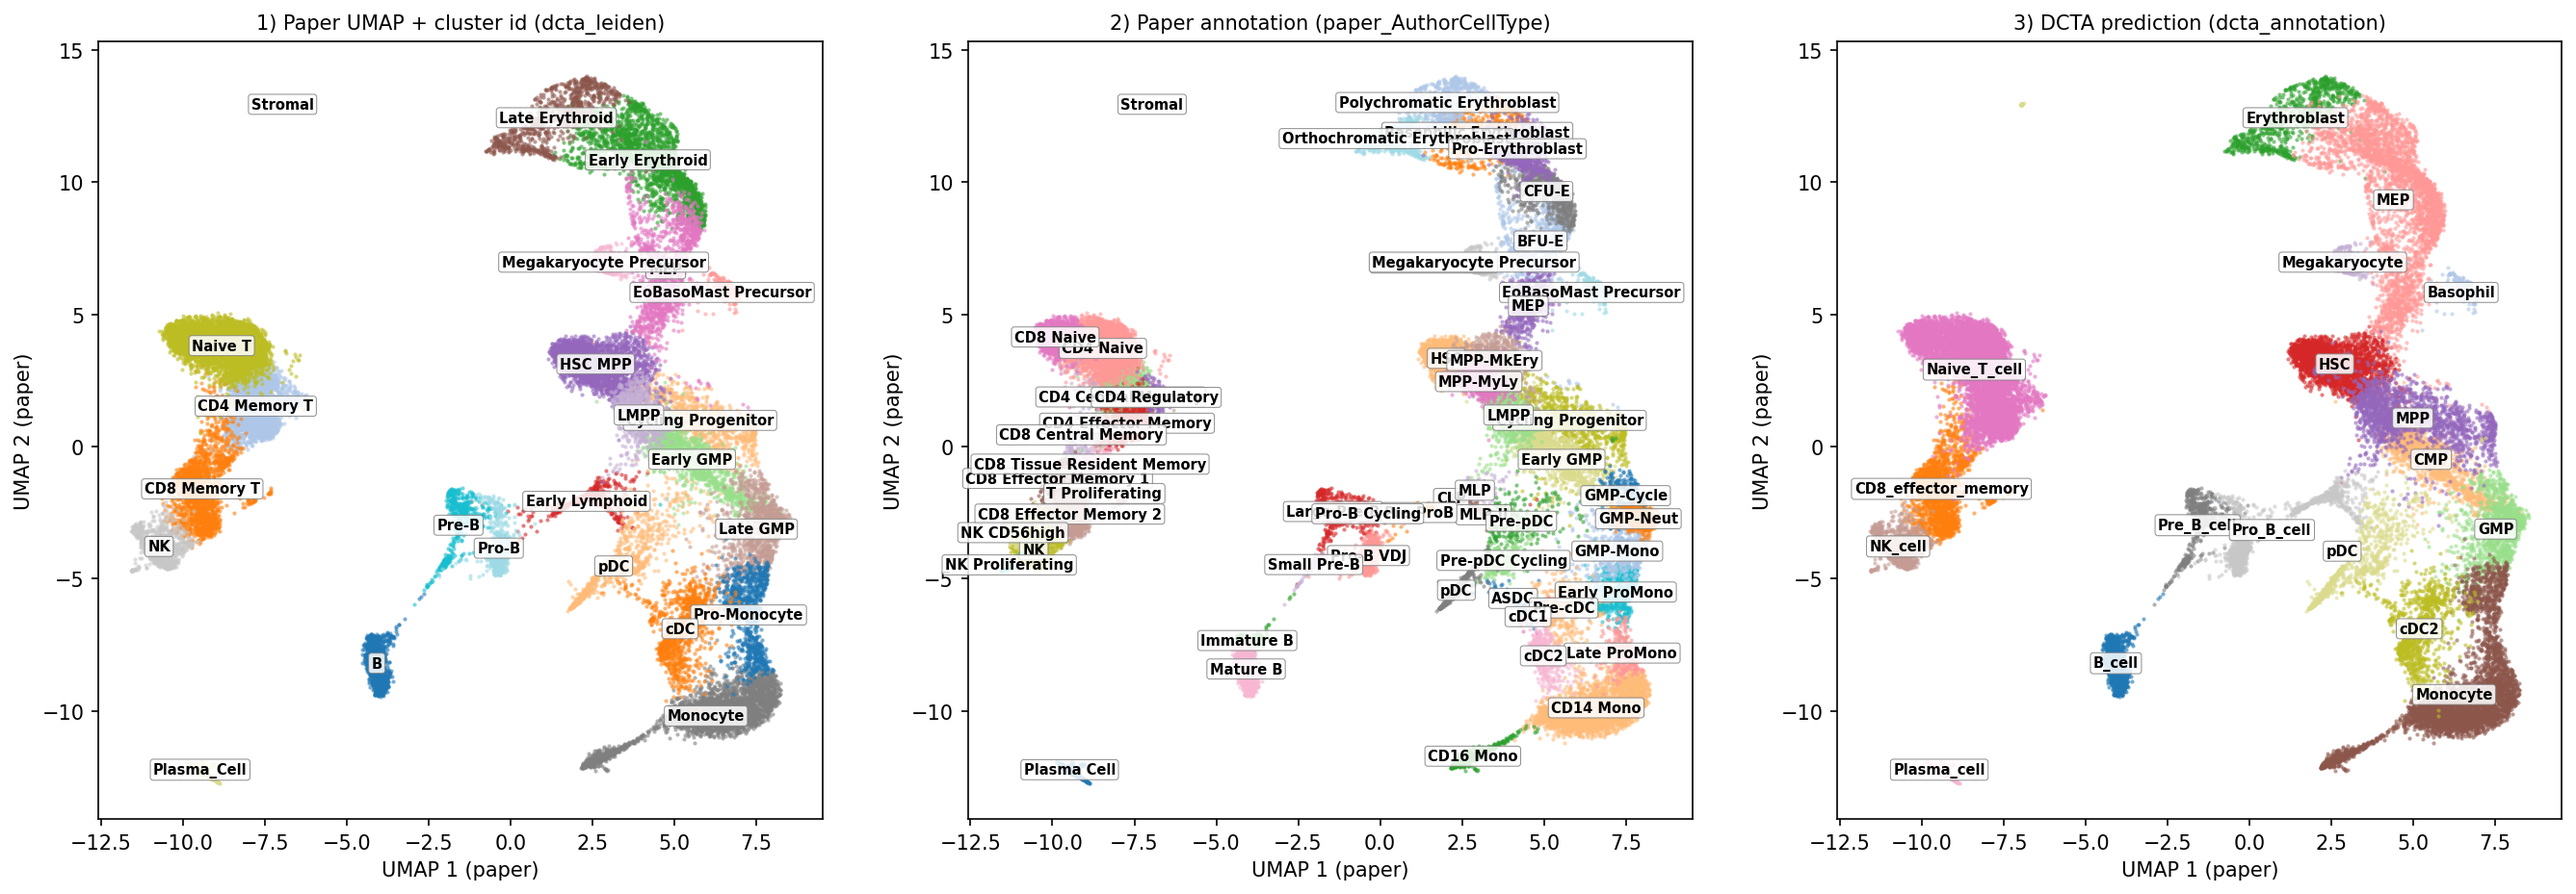
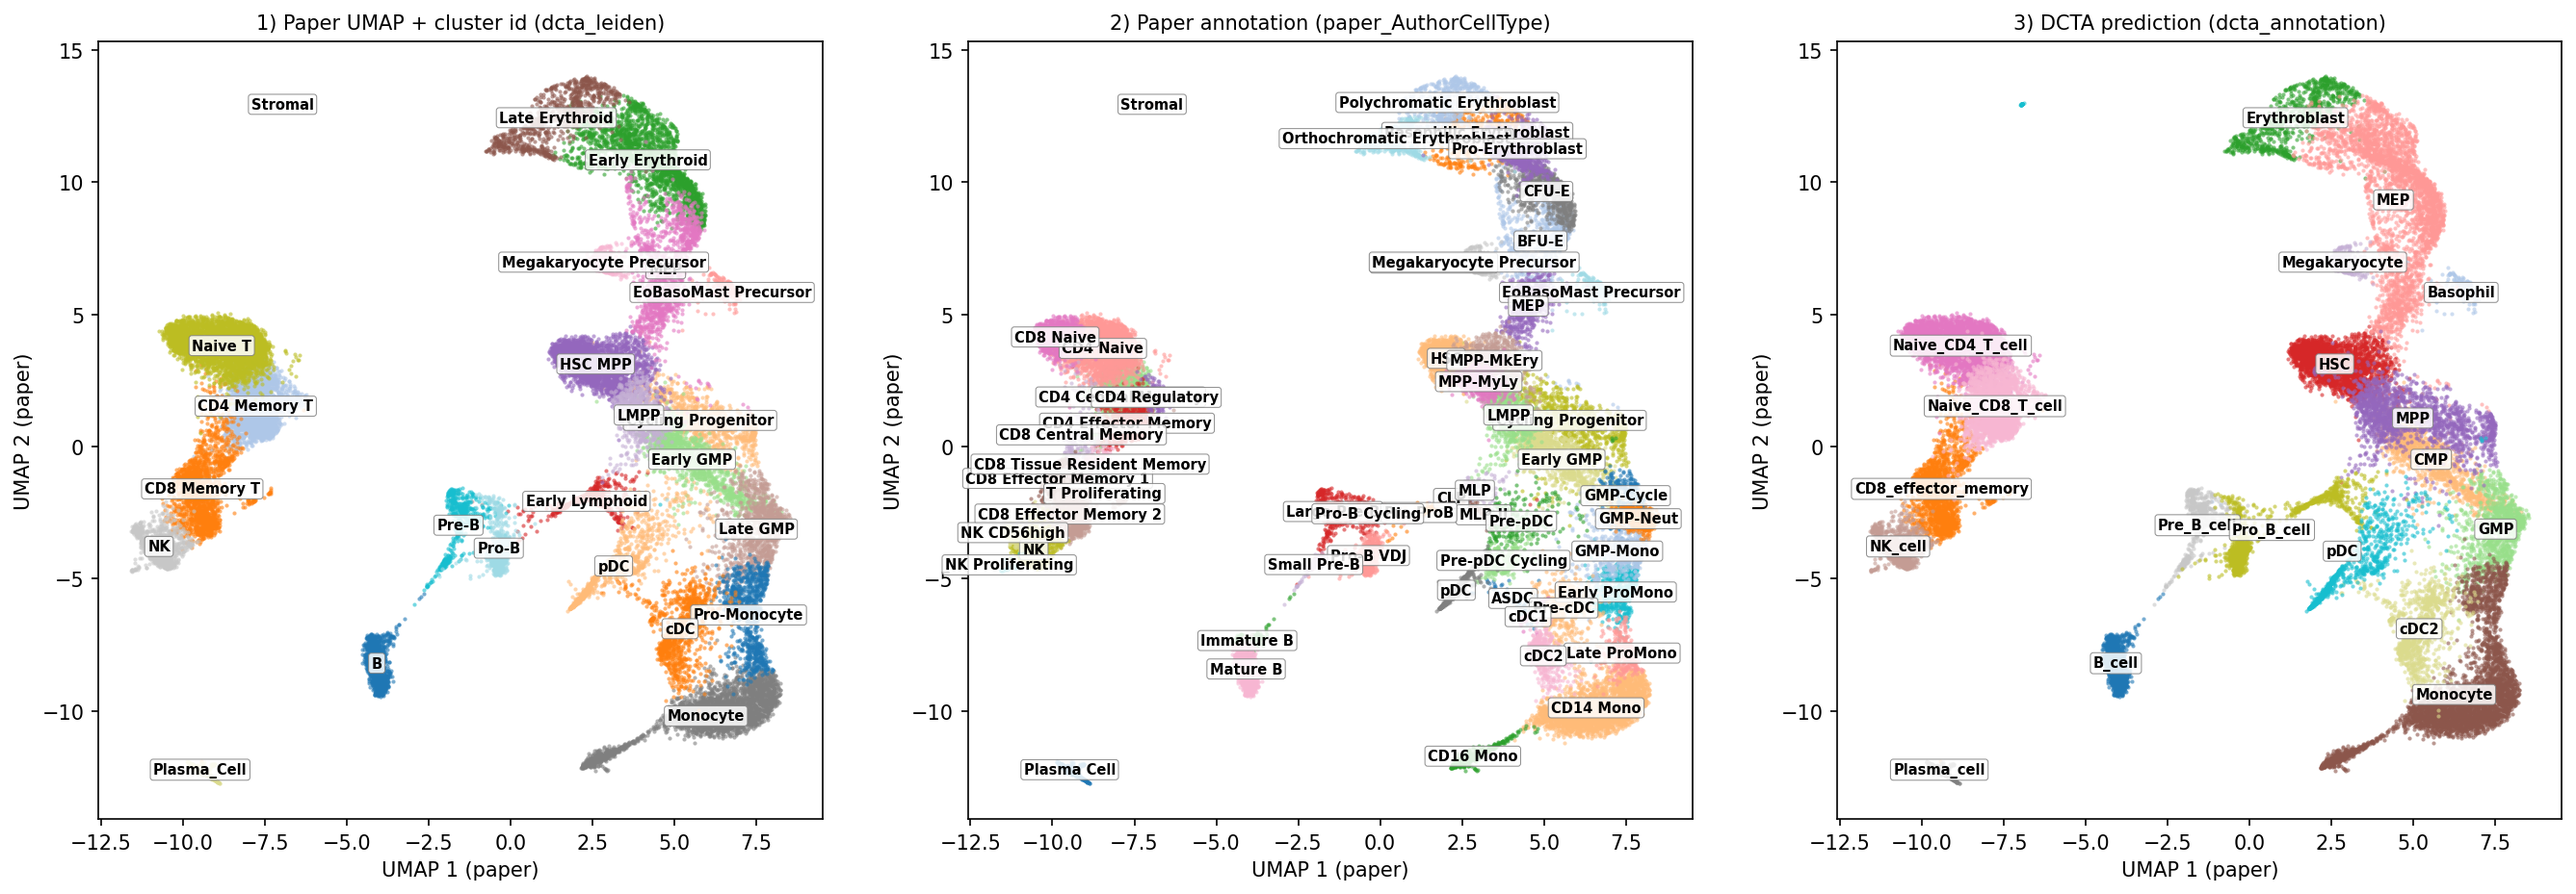
Phase 2.8.1: CD4/CD8 split moved to DP + mature-LCA guard
User directive: 'DP에서 Naive CD4, Naive CD8로 나뉘게 수정'.

dag_prior_t_maturation.yaml:
  REMOVED node:  Naive_T_cell (intermediate between DP and CD4/CD8)
  REMOVED edges: DP -> Naive_T_cell, Naive_T_cell -> Naive_CD4,
                 Naive_T_cell -> Naive_CD8, Naive_T_cell -> NKT_cell
  ADDED edges:   DP -> Naive_CD4_T_cell
                 DP -> Naive_CD8_T_cell
                 DP -> NKT_cell

lineage_mature_markers.yaml:
  REMOVED:  Naive_T_cell entry (G_prior node gone — auto-filtered)
  Naive_CD4_T_cell aliases extended with 'naive thymus-derived CD4-positive,
    alpha-beta T cell' (paper fine label)
  Naive_CD8_T_cell aliases extended similarly

Side effect first observed: CD4 Memory T and Naive T paper clusters got
mislabeled as DP (thymic precursor) because LCA(Naive_CD4, Naive_CD8) =
DP is now only 1 hop. parent-child rule was upshifting mature cells to
a premature/thymic node — same class of issue as Phase 2.6's
initial 'everything goes to HSC' bug.

Fix in dcta/prior.py: stage-based LCA gating.
  Added node_stage map populated from yaml entries' 'stage' field.
  Ambiguity decision tree now reads:
    both terminals (leaf in G_prior)   -> PAGA neighbor tie-break
    both mature/terminal (yaml stage)  -> PAGA neighbor tie-break  [NEW]
    at least one progenitor            -> LCA upshift (within 2 hops)
    parent-child top-2                 -> use parent
    mixed                              -> keep marker best
[…]

Changed region(s): [[0.8381, 0.5307, 0.9622, 0.7804], [0.7139, 0.3746, 0.807, 0.4995]]

diff --git a/dcta/prior.py b/dcta/prior.py
@@ -135,6 +135,7 @@ def map_clusters_to_prior(
     # A panel "matches" a prior node if its canonical name == node OR any
     # alias == node.
     panel_for_node: dict[str, list[str]] = {}
+    node_stage: dict[str, str] = {}
     unmatched: list[str] = []
     for tname, tdata in types.items():
         markers = list((tdata or {}).get("markers") or [])
@@ -146,10 +147,11 @@ def map_clusters_to_prior(
         if hit is None:
             unmatched.append(tname)
             continue
-        # If multiple yaml panels map to the same prior node, keep the
-        # longest panel (most evidence).
         if hit not in panel_for_node or len(markers) > len(panel_for_node[hit]):
             panel_for_node[hit] = markers
+        st = (tdata or {}).get("stage")
+        if st and hit not in node_stage:
+            node_stage[hit] = str(st)
 
     # Score every panel once per cell
     panel_cell_scores: dict[str, np.ndarray] = {
@@ -259,8 +261,16 @@ def map_clusters_to_prior(
             runner_is_prog = _is_progenitor(g_prior, runner_label)
             both_terminal = (not best_is_prog) and (not runner_is_prog)
             both_progenitor = best_is_prog and runner_is_prog
+            # Phase 2.8.1: if BOTH candidates are mature/terminal (per
+            # yaml `stage`), skip LCA-upshift even when both have
+            # out-degree>0 in G_prior. Picking a thymic LCA (e.g. DP) as
+            # the label for a mature peripheral cluster is wrong.
+            best_stage = node_stage.get(best_label, "")
+            runner_stage = node_stage.get(runner_label, "")
+            both_mature = (best_stage in ("mature", "terminal")
+                           and runner_stage in ("mature", "terminal"))
 
-            if both_terminal:
+            if both_terminal or both_mature:
                 # === Case B: both terminals -> PAGA neighbor tie-break ===
                 # Which candidate's G_prior neighborhood is more enriched
                 # in cluster c's PAGA-adjacent clusters' marker scores?
